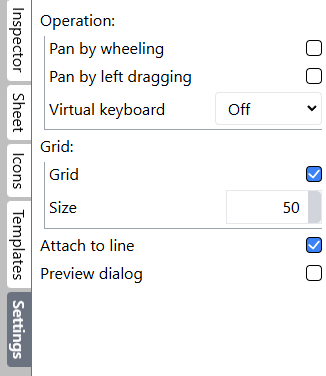
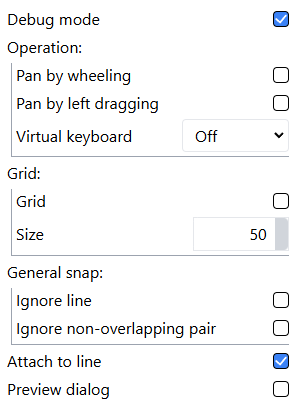
doc: Add new pages for general snapping

diff --git a/.vitepress/config.ts b/.vitepress/config.ts
@@ -27,6 +27,7 @@ const themeConfig = {
       text: "Settings",
       items: [
         { text: "Grid", link: "/settings/grid" },
+        { text: "Snap", link: "/settings/snap" },
         { text: "Preview dialog", link: "/settings/preview-dialog" },
       ],
     },
@@ -67,6 +68,7 @@ const themeConfigJA: ThemeConfig = {
       text: "設定",
       items: [
         { text: "グリッド", link: "/ja/settings/grid" },
+        { text: "スナップ", link: "/ja/settings/snap" },
         {
           text: "プレビューダイアログ",
           link: "/ja/settings/preview-dialog",

diff --git a/src/ja/settings/snap.md b/src/ja/settings/snap.md
@@ -1,0 +1,32 @@
+# スナップ
+
+## 汎用スナップ
+
+### ガイドライン
+表示領域内の各シェイプのバウンディングボックスを基にガイドラインが生成されます。
+
+![](/assets/setting-snap-general-guideline.png)
+
+### 等間隔ガイドライン
+表示領域内のシェイプのペアを基に、シェイプを等間隔に並べるためのガイドラインが生成されます。
+
+![](/assets/setting-snap-general-interval.png)
+
+## 設定
+汎用スナップの挙動を設定パネルにて変更可能です。
+
+### ライン除外
+設定がオフの場合、シェイプと同じくラインも汎用スナップのためのガイドラインを生成します。
+
+![](/assets/setting-general-snap-line-off.png)
+
+設定をオフにすることで、ラインがガイドラインを生成しなくなります。
+
+### 重ならないペア除外
+設定がオフの場合、あらゆるシェイプのペアが等間隔ガイドラインを生成します。
+
+![](/assets/setting-general-snap-pair-off.png)
+
+設定をオフにすることで、重なっていないペアが等間隔ガイドラインを生成しなくなります。
+
+![](/assets/setting-general-snap-pair-on.png)

diff --git a/src/settings/snap.md b/src/settings/snap.md
@@ -1,0 +1,32 @@
+# Snap
+
+## General snap
+
+### Guidelines
+Snapping guidelines are generated based on the bounding box of each shape within the viewport.
+
+![](/assets/setting-snap-general-guideline.png)
+
+### Interval guidelines
+Paris of shapes within the viewport also generate snapping guidelines to align shapes evenly.
+
+![](/assets/setting-snap-general-interval.png)
+
+## Settings
+You can change how general snapping works in the setting panel.
+
+### Ignore line
+Lines generate general snapping guidelines as well as shapes when this is turne off.
+
+![](/assets/setting-general-snap-line-off.png)
+
+You can prevent lines from generating them by turning this on.
+
+### Ignore non-overlapping pair
+Any pair of shapes generates interval guidelines when this is turned off.
+
+![](/assets/setting-general-snap-pair-off.png)
+
+You can prevent non-overlapping pairs from generating them by turning this on.
+
+![](/assets/setting-general-snap-pair-on.png)
